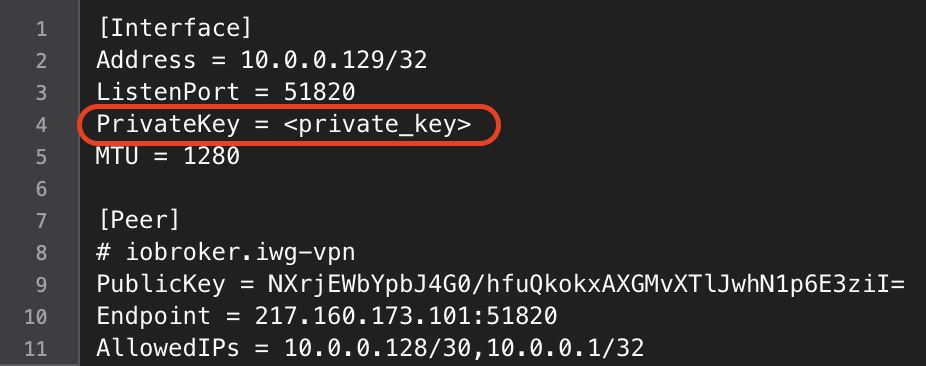
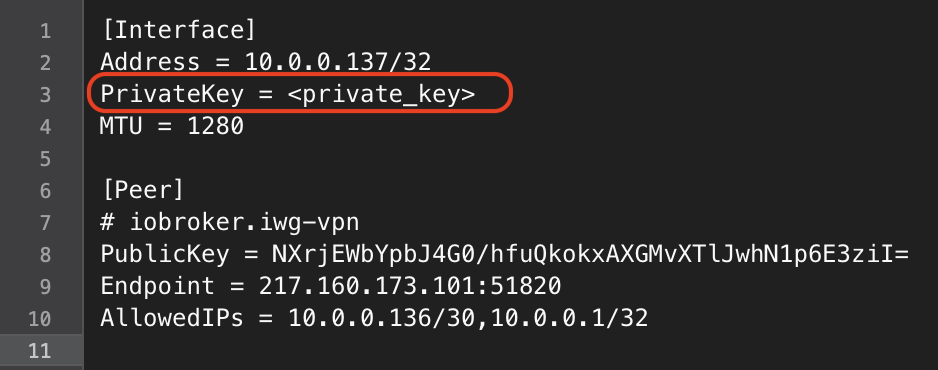
NAT description

Changed region(s): [[0.0, 0.0, 0.9676, 1.0], [0.5443, 0.2404, 0.5745, 0.2705]]

diff --git a/howto/read-me.html b/howto/read-me.html
@@ -38,6 +38,18 @@
         <main class="iwg-layout-content">
             <article class="iwg-card">
                 <div class="iwg-article-body txt">
+                    <p align="right" style="font-size: 0.6em">
+                        WireGuard is a registered trademark of Jason A. Donenfeld. (<a href="https://www.wireguard.com/">https://www.wireguard.com/</a>)</p>
+                    <h5>
+                        Recently added
+                    </h5>
+
+                    <ul>
+                        <li>
+                            NAT Support. <a href=" #nat ">Take me right there!</a>
+                        </li>
+                    </ul>
+
                     <h1>
                         Introduction
                     </h1>
@@ -45,7 +57,8 @@
                         <a href="https://www.wireguard.com/">WireGuard</a> is a VPN implementation that was recently added to the Linux kernel. It is faster and simpler than other popular VPN implementations like OpenVPN or IPsec.
                     </p>
 
-                    <p>This adapter helps to easily set up an own Wireguard-based VPN and connect to a local ioBroker and local network from everwhere and any remote device. And all this can be done just in a minute.</p>
+                    <p>This adapter helps to easily set up an own Wireguard-based VPN and connect to a local ioBroker and local network from everwhere and any remote device. And all this can be done just in a minute.
+                    </p>
 
                     <p>Please be aware that at the moment the adapter is supported on Linux hosts only. If you run ioBroker on a Windows machine watch out for upcoming releases.
                     </p>
@@ -54,14 +67,15 @@
                         Overview
                     </h1>
 
-                    <p>To set up a VPN, we need at least two devices that we want to connect. One of these is the device hosting the ioBroker. The other device could be a smartphone or a computer on another local network.</p>
+                    <p>To set up a VPN, we need at least two devices that we want to connect. One of these is the device hosting the ioBroker. The other device could be a smartphone or a computer on another local network.
+                    </p>
 
                     <figure>
                         <p>
-                            <img src="./img/overview.png" loading="lazy">
+                            <img src="./img/overview.png " loading="lazy ">
                         </p>
                         <figcaption>
-                            Connectivity overview
+                            Overview
                         </figcaption>
                     </figure>
 
@@ -90,7 +104,7 @@
                     </h2>
 
                     <p>
-                        Every device on the VPN must have the WireGuard up and running. You can install WireGuard on your ioBroker host manually following the instructions on the official WireGuard <a href="https://www.wireguard.com/install/">Installation</a>                        page. Alternativelly, you can run a shell script which will simplify the installation and make your life easier.
+                        Every device on the VPN must have the WireGuard up and running. You can install WireGuard on your ioBroker host manually following the instructions on the official WireGuard <a href="https://www.wireguard.com/install/ ">Installation</a>                        page. Alternativelly, you can run a shell script which will simplify the installation and make your life easier.
                     </p>
 
                     <p>
@@ -119,8 +133,9 @@
                         </li>
                     </ul>
                     <p>
-                        To be able to set up the WireGuard network interface, the ioBroker needs to execute WireGuard's <code>wg</code> and <code>wg-quick</code> commands with elevated privileges. Exactly the same way as today the ioBroker configured
-                        to execute commands like <code>systemctl start</code> or <code>apt-get</code> without providing the sudo password, we have to add to this configuration the commands required to manage WireGuard interface.
+                        To be able to set up the WireGuard network interface, the ioBroker needs to execute WireGuard's
+                        <code>wg</code> and <code>wg-quick</code> commands with elevated privileges. Exactly the same way as today the ioBroker configured to execute commands like <code>systemctl start</code> or <code>apt-get</code> without providing
+                        the sudo password, we have to add to this configuration the commands required to manage WireGuard interface.
                     </p>
 
                     <p>
@@ -144,14 +159,14 @@
                     </p>
 
                     <p>
-                        <img src="./img/adapter-connection-status.png" loading="lazy">
+                        <img src="./img/adapter-connection-status.png " loading="lazy ">
                     </p>
                     <p>
                         Once connected, the adapter gets a private IP address and assigns it to the local WireGuard network interface. Starting from this point the ioBroker host is reachable in VPN under this IP address. You can always see the private IP address of your ioBroker
                         host in the <code>Objects</code> screen of the ioBroker:
                     </p>
                     <p>
-                        <img src="./img/local-address.png" loading="lazy">
+                        <img src="./img/local-address.png " loading="lazy ">
                     </p>
 
                     <h2>
@@ -161,9 +176,8 @@
                     <p>Let's call the other devices on your VPN peers. The ioBroker host and the peers are devices on the same VPN.
                     </p>
                     <p>
-                        Once configured, the adapter not only gets its own IP address, it also gets 3 additional IP addresses to be used by the peers. Before adding a peer to your VPN you have to install the WireGuard package or the WireGuard app also on this peer. Please follow
-                        the instructions on the official WireGuard <a href="https://www.wireguard.com/install/">Installation</a> page matching to the operating system of the peer. If your peer running a Linux, you can use the same
-                        installation script as for the ioBroker host.
+                        Once configured, the adapter not only gets its own IP address, it also gets 3 additional IP addresses to be used by the peers. Before adding a peer to your VPN you have to install the WireGuard package or the WireGuard app also on this peer. For connecting
+                        individual devices to a network via VPN, there are apps or programs from WireGuard itself for most operating systems. Please follow the instructions on the official WireGuard <a href="https://www.wireguard.com/install/ ">Installation</a>                        page matching to the operating system of the peer. If your peer running a Linux, you can use the same installation script as for the ioBroker host.
                     </p>
 
                     <p>To encrypt and decrypt network packets, we need keys. Once the WireGuard is installed on a peer, the key paar has to be generated. The private key will be used to decrypt incomming network packets and must be never revealed. The public
@@ -185,7 +199,8 @@
                     </p>
 
                     <p>
-                        This command will create the keys and store them in <code>privatekey</code> and <code>publickey</code> files and print the publickey to stdout. You will need both keys later for configuration, so print also the privatekey to stdout:
+                        This command will create the keys and store them in <code>privatekey</code> and
+                        <code>publickey</code> files and print the publickey to stdout. You will need both keys later for configuration, so print also the privatekey to stdout:
                     </p>
 
                     <p>
@@ -197,11 +212,12 @@
                         Adding peers to VPN
                     </h2>
                     <p>
-                        To add a peer open the adapter configuration and click on <code>PEERS</code>, then <code>+</code> to add a new row in the table and provide the required details:
+                        To add a peer open the adapter configuration and click on <code>PEERS</code>, then
+                        <code>+</code> to add a new row in the table and provide the required details:
                     </p>
 
                     <p>
-                        <img src="./img/adapter-config.png" loading="lazy">
+                        <img src="./img/adapter-config-peers.png " loading="lazy ">
                     </p>
 
 
@@ -216,7 +232,7 @@
                             <code>Public Key</code> — The public key of the generated on the peer key pair. It will be used for network traffic encryption.
                         </li>
                         <li>
-                            <code>Active</code> — Only active peers are really available on VPN. You can configure more peers than IP addresses available, but only active ones with unique IP addresses will be added to your VPN. By switching this property
+                            <code>Active</code> — Only active peers are really available on VPN. You can configure more peers than VPN IP addresses available, but only active ones with unique IP addresses will be added to your VPN. By switching this property
                             on and off you can add or remove a preconfigured peer to/from your VPN.
                         </li>
                     </ul>
@@ -230,61 +246,132 @@
                     </h2>
                     <p>
                         Now it's time for peers to join your VPN. If everything went well, the adapter has already created a config for every active peer. Open the <code>Objects</code> screen in the ioBroker, find the
-                        <code>iwg-vpn</code> section and your active peers. Every peer object has an <code>address</code> state containing the assigned private IP address and the <code>config</code> state with prepared configuration.
+                        <code>iwg-vpn</code> section and your active peers. Every peer object has an
+                        <code>address</code> state containing the assigned private IP address and the
+                        <code>config</code> state with prepared configuration.
 
                     </p>
                     <p>
-                        <img src="./img/peer-config.png" loading="lazy">
+                        <img src="./img/peer-config.png " loading="lazy ">
                     </p>
 
                     <p>Copy the configuration string and paste it into a text editor. It looks like this:</p>
 
                     <p>
-                        <img src="./img/peer-config-file.png" loading="lazy">
+                        <img src="./img/peer-config-file.png " loading="lazy ">
                     </p>
 
                     <p>
-                        Replace the placeholder <code>&lt;private_key&gt;</code> with your peer's private key and place the whole content into a config file on the peer. For a mobile peer you can just paste the copied configuration into the iOS or Android
-                        app, for a Linux peer create a file containing the configuration at
-                        <code>/etc/wireguard/wg0.conf</code>.
-                    </p>
+                        Replace the placeholder <code>&lt;private_key&gt;</code> with your peer's private key and place the whole content as a config on a peer. E.g., on an Android device the configuration would look like:
+                        <p>
+                            <img src="./img/android-config.png " style="width: auto; min-width: 50px " loading="lazy ">
+                        </p>
 
-                    <p>
-                        Having the WireGuard installed and configuration file created, the VPN interface can be started on a peer. To start/stop the WireGuard on the mobile peer use the installed app, on a Linux peer use the command:
-                    </p>
-                    <p>
-                        <code>wg-quick up wg0</code>
-                    </p>
-                    <p>to start and </p>
-                    <p><code>wg-quick down wg0</code> </p>
-                    <p>to stop the WireGuard interface.</p>
-                    <h2>
-                        Connecting
-                    </h2>
-                    <p>
-                        Everything is set up and you're ready to go! Open your favorite browser on the peer and navigate to the ioBroker via the VPN using the ioBroker's private IP address:
-                    </p>
-                    <p>
-                        <img src="./img/connected.png" loading="lazy">
-                    </p>
-                    <h2>
-                        Some words about security
-                    </h2>
-                    <p>
-                        Security is an important aspect of any communication in generall and in this case even especially important. Please be aware that this adapter helps you to set up a communication channel and easily manage the WireGuard interface, but doesn't participate
-                        in the communication itself. The entire communication is handled by the WireGuard. You can refer for the detailed description of how everything works and how the security is ensured to the WireGuard <a href="https://www.wireguard.com/papers/wireguard.pdf">whitepaper</a>.
-                    </p>
 
-                    <p>
-                        You always control your VPN. Deleting all the peers or having no active peers configured makes your ioBroker host unreachable under the VPN address. Stopping the adapter will stop the WireGuard and remove the WireGuard network interface entirely.
-                    </p>
+                        <p>
+                            For a Linux peer create a file containing the configuration at
+                            <code>/etc/wireguard/wg0.conf</code>.
+                        </p>
 
-                    <h2>
-                        Support
-                    </h2>
-                    <p>
-                        In case you have a question or missing a feature feel free to contact iwg.vpn@gmail.com
-                    </p>
+                        <p>
+                            Having the WireGuard installed and configuration file created, the VPN interface can be started on a peer. To start/stop the WireGuard on the mobile peer use the installed app, on a Linux peer use the command:
+                        </p>
+                        <p>
+                            <code>wg-quick up wg0</code>
+                        </p>
+                        <p>to start and </p>
+                        <p><code>wg-quick down wg0</code> </p>
+                        <p>to stop the WireGuard interface.</p>
+                        <h2>
+                            Connecting
+                        </h2>
+                        <p>
+                            Everything is set up and you're ready to go! Open your favorite browser on the peer and navigate to the ioBroker via the VPN using the ioBroker's private IP address:
+                        </p>
+                        <p>
+                            <img src="./img/connected.png " loading="lazy ">
+                        </p>
+
+                        <p>
+                            Of couse you can access any application/server running on the ioBroker host from any of your remote devices (i.e. peers) in exactly the same way, e.g., access the Phoscon Web-Server:
+                        </p>
+                        <p>
+                            <img src="./img/android-phoscon.png " style="width: auto; min-width: 50px " loading="lazy ">
+                        </p>
+
+                        <h2 id="nat ">
+                            NAT
+                        </h2>
+                        <p>
+                            The adapter supports NAT (<b>N</b>etwork <b>A</b>ddress <b>T</b>ranslation) or more precisely 1:1 NAT that maps one internal address (in a local network) to one external address (in VPN). The figure below shows an example of
+                            a NAT configuration. The network interface on ioBroker host has got 2 VPN addresses assigned: <code>10.0.0.136</code> and <code>10.0.0.138</code>. The VPN address <code>10.0.0.138</code> is configured to forward the incomming
+                            traffic to a device in the local network having the internal IP <code>192.168.0.1</code>. With this configuration a peer with VPN IP address <code>10.0.0.137</code> is able to access the ioBroker host under VPN IP <code>10.0.0.136</code>                            and the local network device under the VPN IP address <code>10.0.0.138</code>:
+                        </p>
+                        <figure>
+                            <p>
+                                <img src="./img/nat.png " loading="lazy ">
+                            </p>
+                            <figcaption>
+                                1:1 NAT
+                            </figcaption>
+                        </figure>
+
+                        <p>
+                            The VPN addresses the adapter gets can be configured either to be used as peer addresses or as addresses mapped to local network devices. The must be no overlap, i.e. a VPN IP address of an active peer cannot be used as a NAT IP address and vice versa.
+                        </p>
+
+                        <h3>
+                            NAT Configuration
+
+                        </h3>
+
+                        <p>
+                            The NAT configuration is very simple and similar to the Peers configuration. Open the adapter configuration, click on <code>NAT</code>, then <code>+</code> to add a new row in the table and provide the required details:
+                        </p>
+                        <p>
+                            <img src="./img/nat-configuration.png " loading="lazy ">
+                        </p>
+
+                        <ul>
+                            <li>
+                                <code>Source IP</code> — The VPN IP address you'd like to map to a device in the local network. The IP can be selected from a drop-down list of addresses in your VPN.
+                            </li>
+                            <li>
+                                <code>Destination IP</code> — The IP of a device in the local network you'd like to access from your VPN peers.
+                            </li>
+                            <li>
+                                <code>Active</code> — Only active NAT mappings are really available on VPN. You can configure more NAT mappings than VPN IP addresses available, but only active ones with unique IP addresses will be added to your VPN. By
+                                switching this property on and off you can add or remove a predefined NAT configuration to/from your VPN.
+                            </li>
+                        </ul>
+                        <p>
+                            To apply your configuration hit <code>SAVE AND CLOSE</code> button.
+                        </p>
+                        <p>
+                            Once the NAT is configured the devices in the local network can be accessed in exactly the same way as the ioBroker host. Just navigate on your peer to the as NAT configured VPN IP address:
+                        </p>
+                        <p>
+                            <img src="./img/nat-access.png " style="width: auto; min-width: 50px " loading="lazy ">
+                        </p>
+                        <h2>
+                            Some words about security
+                        </h2>
+                        <p>
+                            Security is an important aspect of any communication in generall and in this case even especially important. Please be aware that this adapter helps you to set up a communication channel and easily manage the WireGuard interface, but doesn't participate
+                            in the communication itself. The entire communication is handled by the WireGuard. You can refer for the detailed description of how everything works and how the security is ensured to the WireGuard
+                            <a href="https://www.wireguard.com/papers/wireguard.pdf ">whitepaper</a>.
+                        </p>
+
+                        <p>
+                            You always control your VPN. Deleting all the peers or having no active peers configured makes your ioBroker host unreachable under the VPN address. Stopping the adapter will stop the WireGuard and remove the WireGuard network interface entirely.
+                        </p>
+
+                        <h2>
+                            Support
+                        </h2>
+                        <p>
+                            In case you have a question or missing a feature feel free to contact iwg.vpn@gmail.com
+                        </p>
 
                 </div>
 

diff --git a/README.md b/README.md
@@ -6,11 +6,13 @@
 
 [![NPM](https://nodei.co/npm/iobroker.iwg-vpn.png?downloads=true)](https://nodei.co/npm/iobroker.iwg-vpn/)
 
+WireGuard is a registered trademark of Jason A. Donenfeld. (https://www.wireguard.com)
+
 ## iwg-vpn adapter for ioBroker
 
 THE adapter for setting up a secure connection from remote devices to the ioBroker and local network leveraging the [WireGuard](https://www.wireguard.com) VPN.
 
-For detailed description please refer to the addapter configuration screen or follow the
+For detailed description please refer to the adapter configuration screen or follow the
 link: https://htmlpreview.github.io/?https://github.com/iwg-vpn/iobroker.iwg-vpn/blob/main/howto/read-me.html.
 
 ## License
